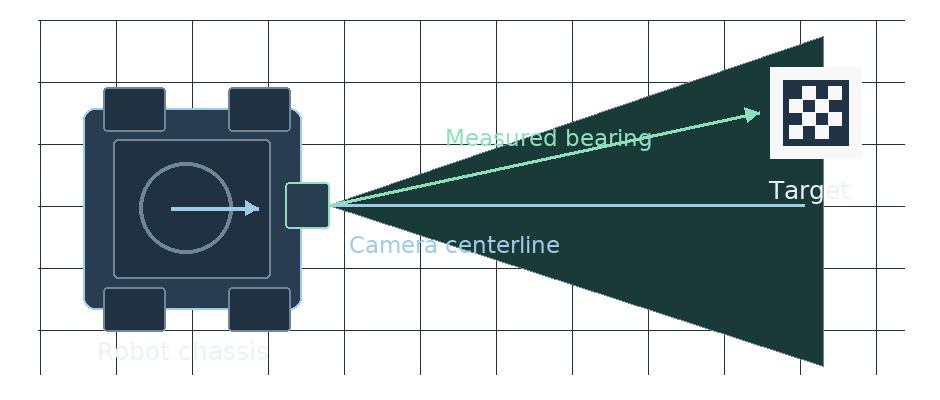
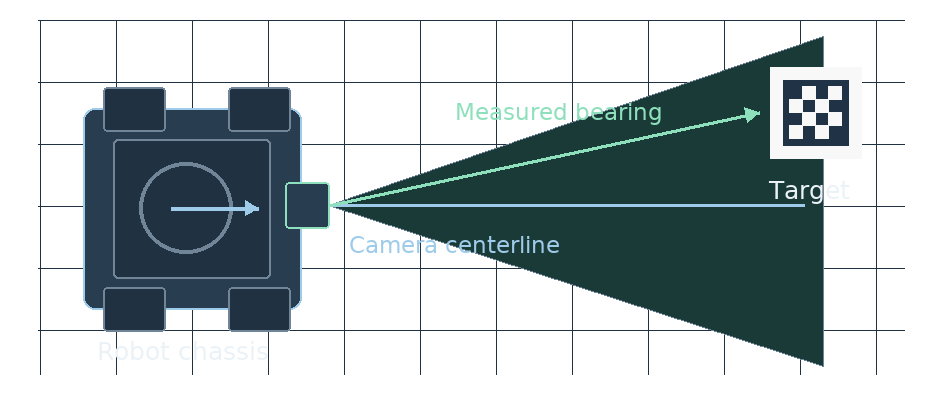
Clear bearing labels from their sight lines

Changed region(s): [[0.4628, 0.33, 0.7096, 0.39], [0.4628, 0.27, 0.7096, 0.3]]

diff --git a/scripts/render-figures.py b/scripts/render-figures.py
@@ -78,7 +78,7 @@ for theme, palette in PALETTES.items():
     text((809,240),"Target",25,INK,anchor="ma")
     text((183,401),"Robot chassis",25,anchor="ma")
     text((349,296),"Camera centerline",23,BLUE)
-    text((445,189),"Measured bearing",23,MINT)
+    text((455,163),"Measured bearing",23,MINT)
     save("field-view")
 
     start()
@@ -105,7 +105,7 @@ for theme, palette in PALETTES.items():
     dot(origin,MINT,9); dot(target,GOLD,10)
     line([target,(763,310)],LINE,3)
     draw.arc((8,188,252,432),344,360,fill=MINT,width=5)
-    text((280,254),"Bearing θ",28,MINT)
+    text((280,266),"Bearing θ",28,MINT)
     text((771,104),"Target",26,GOLD)
     text((129,345),"Lens center",27)
     text((521,334),"Optical axis",27,MUTED)
